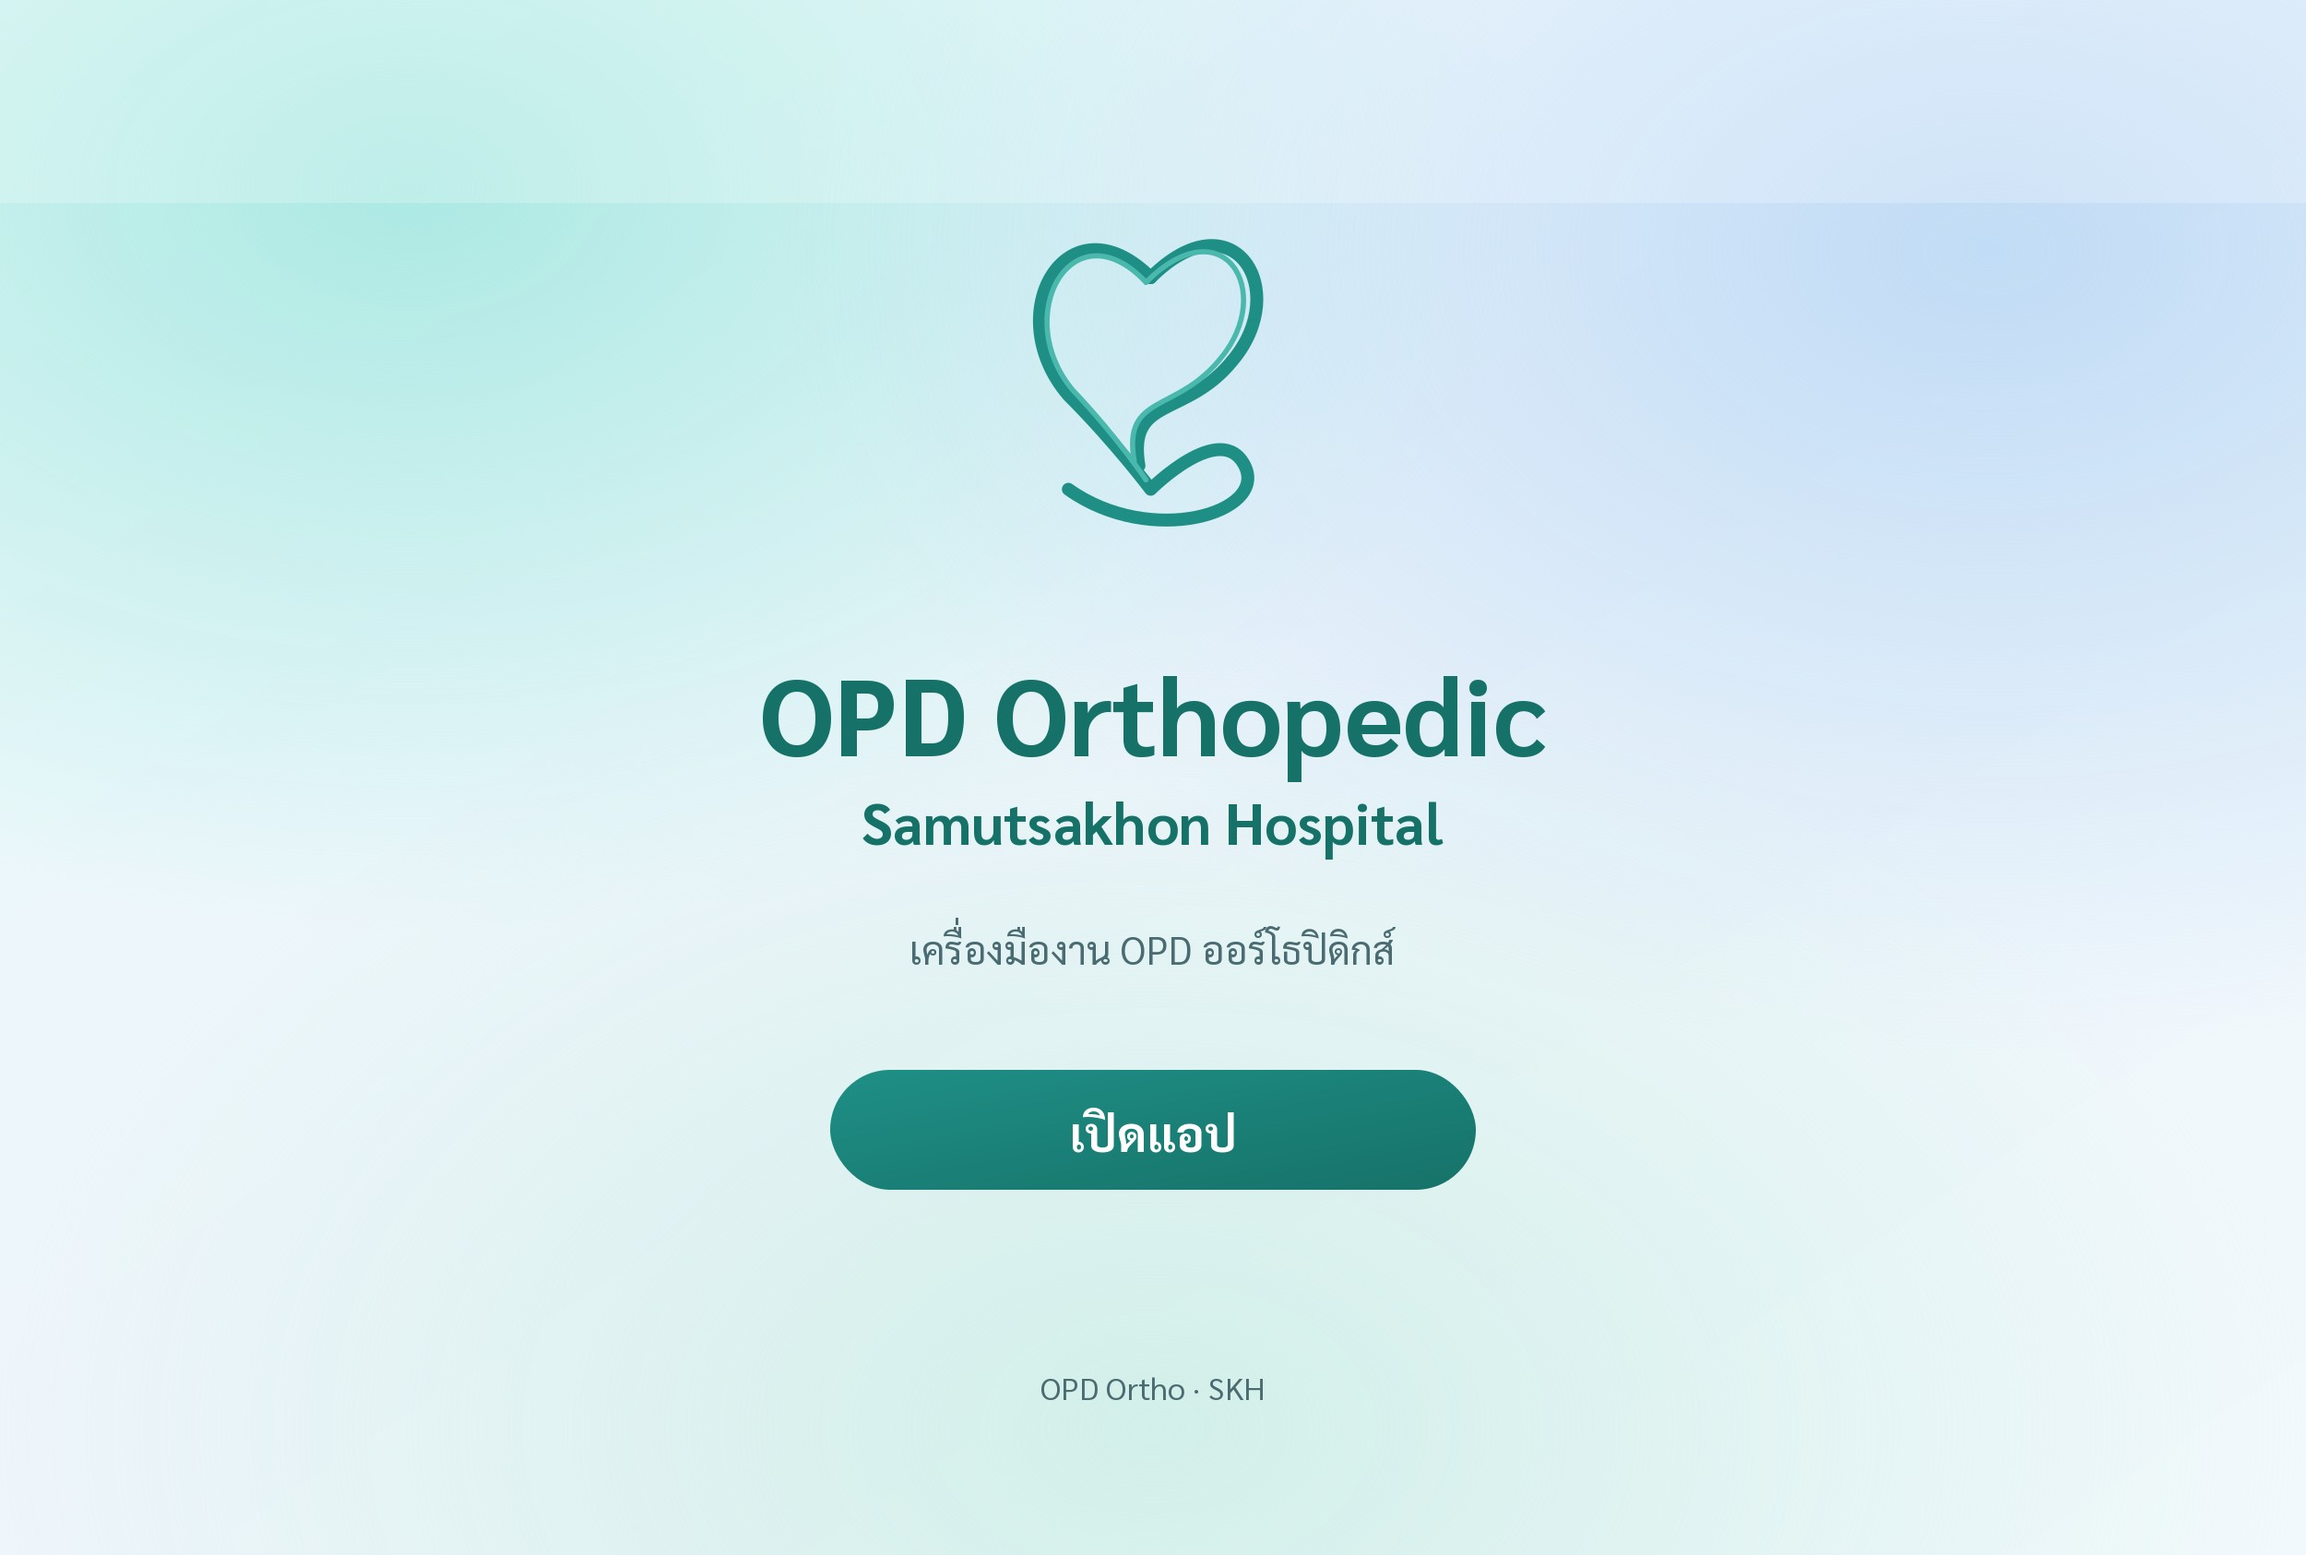
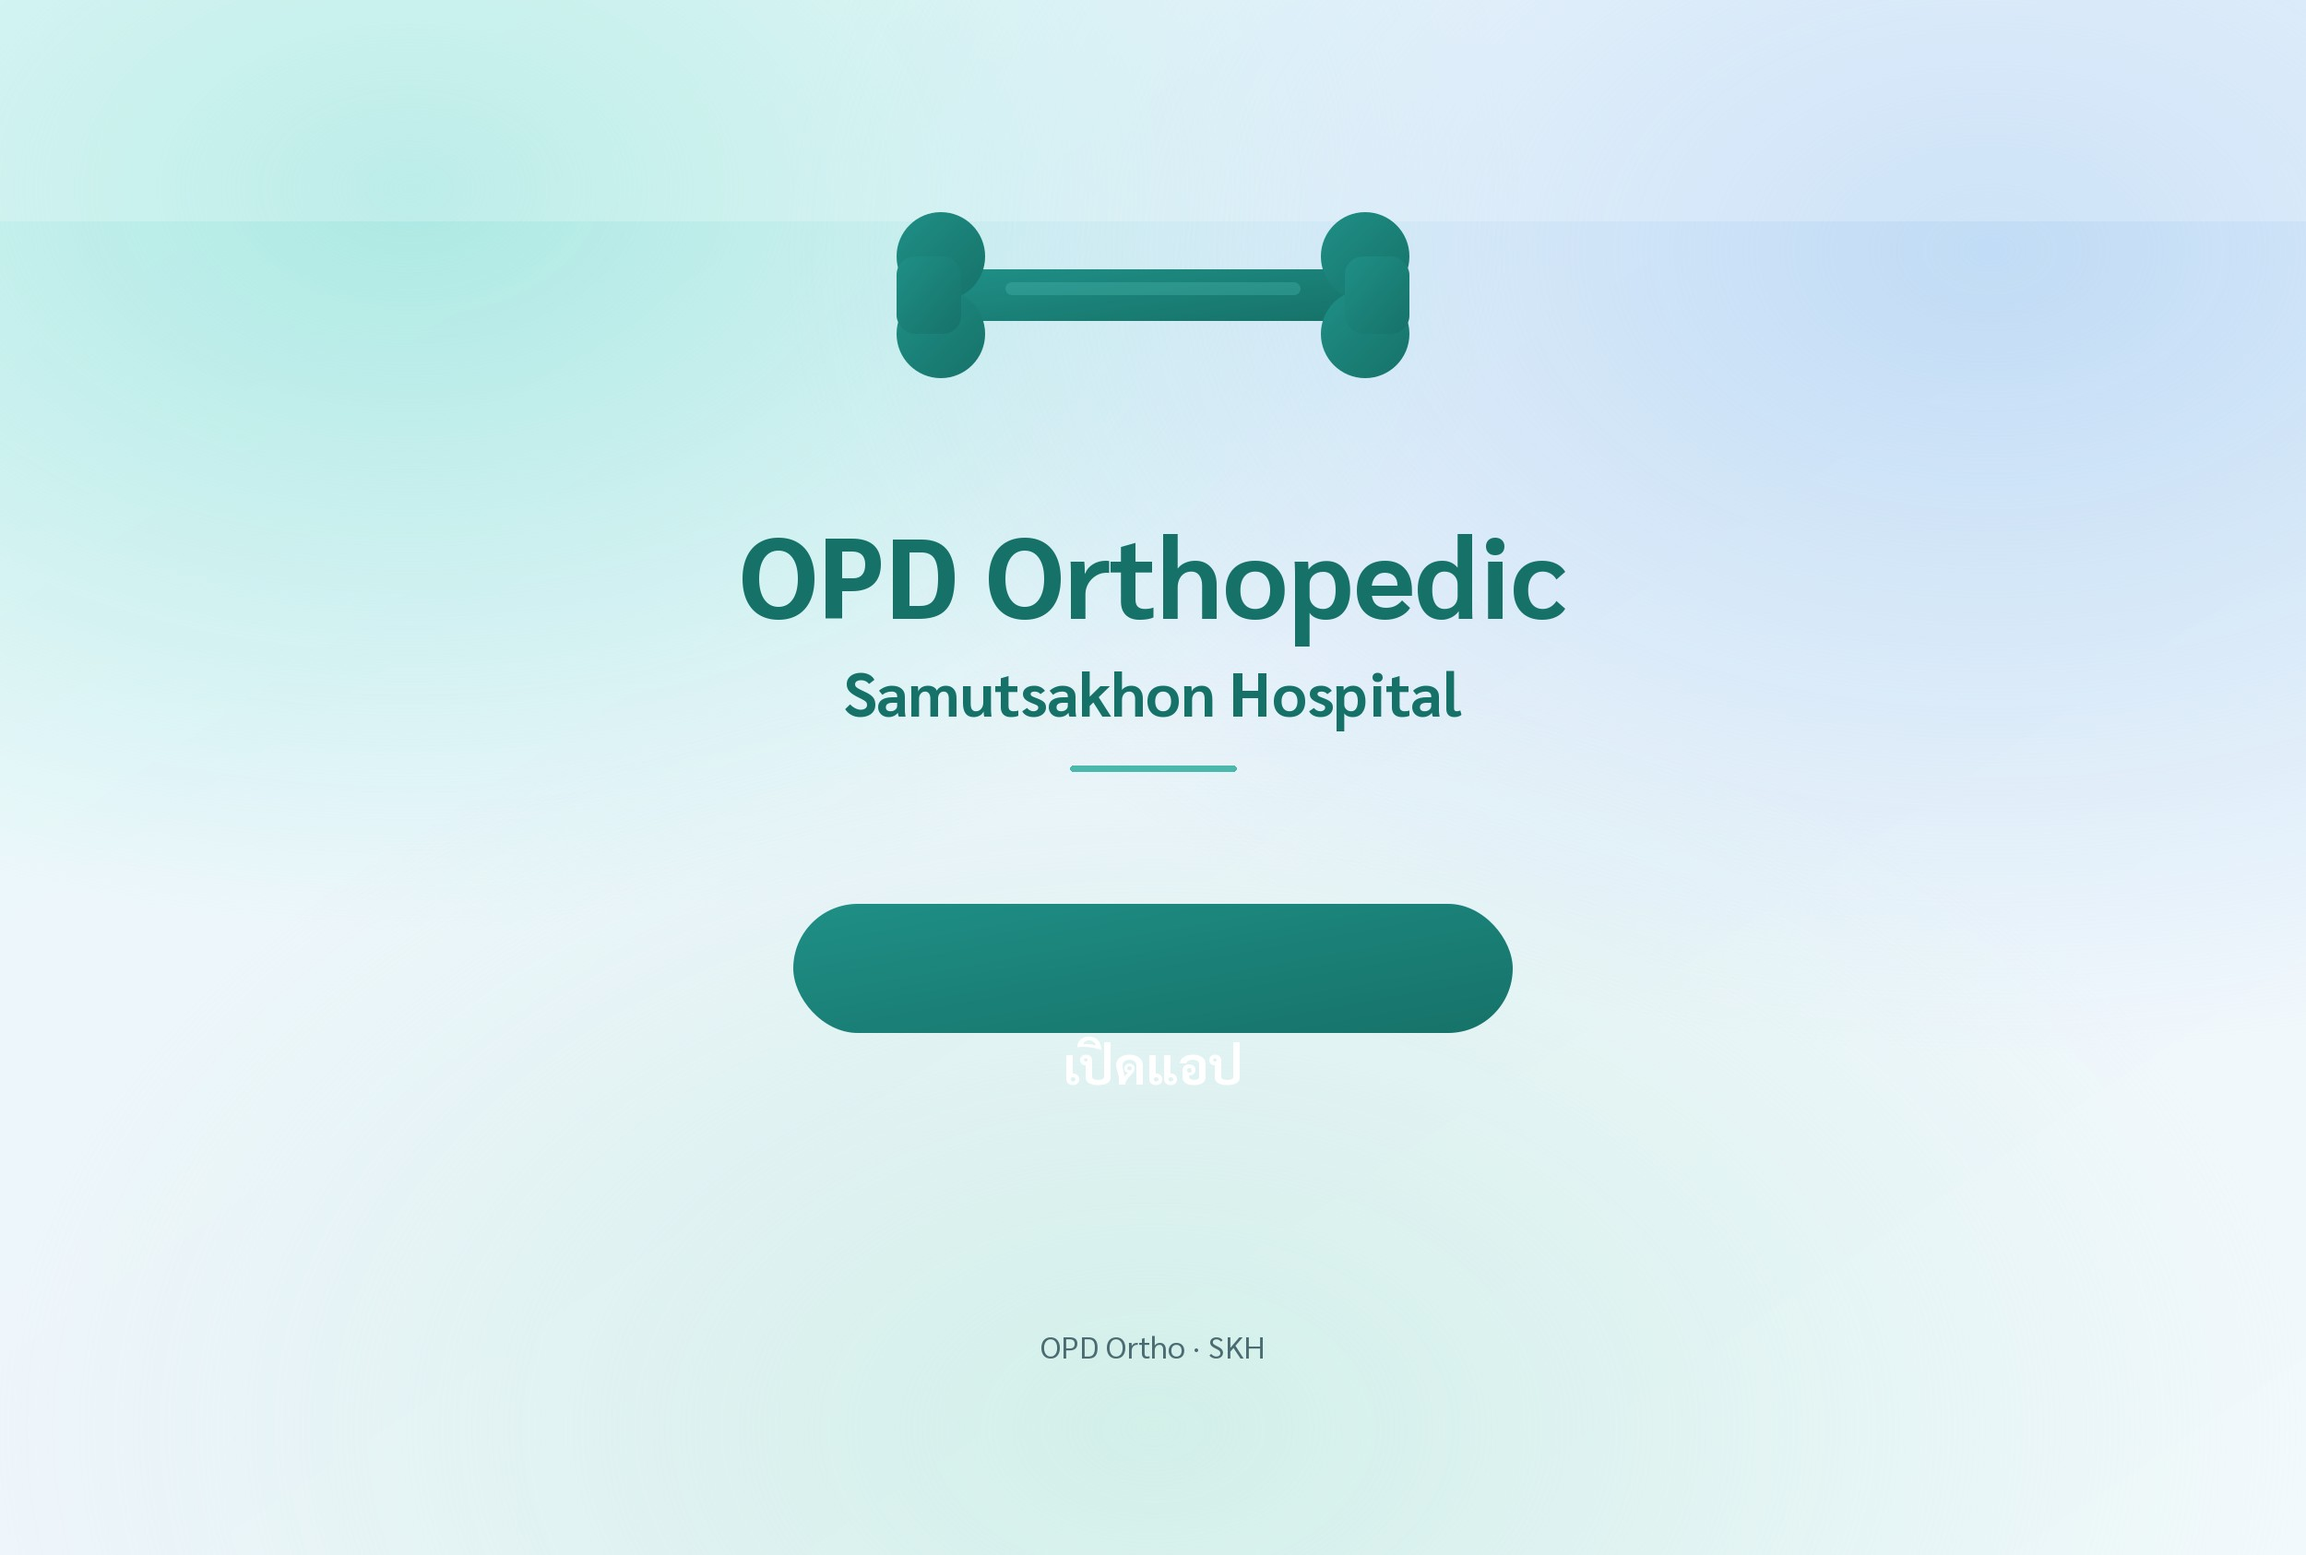
Refine rich menu: bone mark, drop support line, tighten spacing
Replace the heart/EKG stroke with an orthopedic bone icon, remove the
Thai “เครื่องมืองาน…” line, and compact the vertical rhythm.

Changed region(s): [[0.312, 0.4318, 0.6864, 0.7711], [0.312, 0.1234, 0.6864, 0.4009], [0.4368, 0.8636, 0.5616, 0.8944]]

diff --git a/line/rich-menu/generate-image.py b/line/rich-menu/generate-image.py
@@ -1,9 +1,9 @@
 #!/usr/bin/env python3
 """Generate the OPD Ortho SKH LINE rich-menu image (2500x1686 JPEG).
 
-Full-bleed branded CTA matching the app glass/teal theme and AnimatedLogo.
-JPEG stays under LINE's 1 MB limit (soft gradients blow past that as PNG).
-Thai text is drawn with Pillow + Sarabun (Cairo SVG fonts are unreliable for Thai).
+Full-bleed branded CTA: teal glass atmosphere, bone mark, brand wordmark,
+single “เปิดแอป” button. JPEG stays under LINE’s 1 MB limit.
+Thai text is drawn with Pillow + Sarabun.
 """
 
 from __future__ import annotations
@@ -20,31 +20,17 @@ FONT_BOLD = ROOT / "public" / "fonts" / "Sarabun-Bold.ttf"
 FONT_REG = ROOT / "public" / "fonts" / "Sarabun-Regular.ttf"
 
 W, H = 2500, 1686
-BRAND = (22, 114, 105)  # brand.600 / logo fill
+BRAND = (22, 114, 105)  # brand.600
+ACCENT = (75, 184, 174)  # brand.400
 MUTED = (74, 107, 114)
 
 
 def build_atmosphere_svg() -> str:
-    """Background + AnimatedLogo heart + CTA pill shape (labels drawn in Pillow)."""
+    """Background + bone mark + CTA pill (labels drawn in Pillow)."""
+    # Classic long-bone silhouette (orthopedic), centered at ~1250,380
     return f"""<?xml version="1.0" encoding="UTF-8"?>
 <svg xmlns="http://www.w3.org/2000/svg" width="{W}" height="{H}" viewBox="0 0 {W} {H}">
   <defs>
-    <style>
-      .heart-dark {{
-        fill: none;
-        stroke: #1f8f86;
-        stroke-width: 5.5;
-        stroke-linecap: round;
-        stroke-linejoin: round;
-      }}
-      .heart-light {{
-        fill: none;
-        stroke: #4bb8ae;
-        stroke-width: 2.2;
-        stroke-linecap: round;
-        stroke-linejoin: round;
-      }}
-    </style>
     <linearGradient id="wash" x1="0%" y1="0%" x2="100%" y2="100%">
       <stop offset="0%" stop-color="#eafbfa"/>
       <stop offset="48%" stop-color="#eef5fb"/>
@@ -62,6 +48,10 @@ def build_atmosphere_svg() -> str:
       <stop offset="0%" stop-color="#cdeee6" stop-opacity="0.85"/>
       <stop offset="100%" stop-color="#cdeee6" stop-opacity="0"/>
     </radialGradient>
+    <linearGradient id="boneFill" x1="0%" y1="0%" x2="100%" y2="100%">
+      <stop offset="0%" stop-color="#1f8f86"/>
+      <stop offset="100%" stop-color="#167269"/>
+    </linearGradient>
     <linearGradient id="ctaFill" x1="0%" y1="0%" x2="100%" y2="100%">
       <stop offset="0%" stop-color="#1f8f86"/>
       <stop offset="100%" stop-color="#167269"/>
@@ -72,21 +62,26 @@ def build_atmosphere_svg() -> str:
   <rect width="{W}" height="{H}" fill="url(#blobTeal)"/>
   <rect width="{W}" height="{H}" fill="url(#blobBlue)"/>
   <rect width="{W}" height="{H}" fill="url(#blobMint)"/>
-  <rect x="0" y="0" width="{W}" height="260" fill="#ffffff" opacity="0.20"/>
+  <rect x="0" y="0" width="{W}" height="240" fill="#ffffff" opacity="0.20"/>
 
-  <!-- AnimatedLogo heart strokes (same paths as src/components/animated-logo.tsx) -->
-  <g transform="translate(1095, 210) scale(2.85)">
-    <path class="heart-dark"
-      d="M 50 20 C 15 -15 -15 35 15 70 C 35 90 50 110 50 110 C 50 110 80 80 90 100 C 100 120 50 135 15 110"/>
-    <path class="heart-dark"
-      d="M 50 20 C 85 -15 110 25 85 55 C 65 80 40 70 45 100"/>
-    <path class="heart-light"
-      d="M 48 22 C 17 -11 -10 36 17 68 C 36 88 48 106 48 106"/>
-    <path class="heart-light"
-      d="M 48 22 C 81 -11 103 26 80 54 C 61 78 38 69 43 98"/>
+  <!-- Orthopedic long bone (horizontal), brand teal -->
+  <g transform="translate(1250, 320)">
+    <!-- shaft -->
+    <rect x="-210" y="-28" width="420" height="56" rx="22" fill="url(#boneFill)"/>
+    <!-- left epiphysis (two lobes) -->
+    <circle cx="-230" cy="-42" r="48" fill="url(#boneFill)"/>
+    <circle cx="-230" cy="42" r="48" fill="url(#boneFill)"/>
+    <rect x="-278" y="-42" width="70" height="84" rx="20" fill="url(#boneFill)"/>
+    <!-- right epiphysis -->
+    <circle cx="230" cy="-42" r="48" fill="url(#boneFill)"/>
+    <circle cx="230" cy="42" r="48" fill="url(#boneFill)"/>
+    <rect x="208" y="-42" width="70" height="84" rx="20" fill="url(#boneFill)"/>
+    <!-- soft highlight along shaft -->
+    <rect x="-160" y="-14" width="320" height="14" rx="7" fill="#4bb8ae" opacity="0.35"/>
   </g>
 
-  <rect x="860" y="1185" width="780" height="140" rx="70" fill="url(#ctaFill)"/>
+  <!-- CTA pill -->
+  <rect x="860" y="980" width="780" height="140" rx="70" fill="url(#ctaFill)"/>
 </svg>
 """
 
@@ -117,21 +112,15 @@ def main() -> None:
 
     title = ImageFont.truetype(str(FONT_BOLD), 124)
     hospital = ImageFont.truetype(str(FONT_BOLD), 66)
-    support = ImageFont.truetype(str(FONT_REG), 44)
     cta = ImageFont.truetype(str(FONT_BOLD), 56)
     footer = ImageFont.truetype(str(FONT_REG), 34)
 
-    # Brand-first hierarchy (matches home screen AnimatedLogo copy)
-    centered_text(draw, "OPD Orthopedic", 780, title, BRAND)
-    centered_text(draw, "Samutsakhon Hospital", 895, hospital, BRAND)
-
-    # Soft rule under hospital name
-    rule_y = 960
-    draw.rounded_rectangle((1120, rule_y, 1380, rule_y + 6), radius=3, fill=(75, 184, 174, ))
-
-    centered_text(draw, "เครื่องมืองาน OPD ออร์โธปิดิกส์", 1040, support, MUTED)
-    centered_text(draw, "เปิดแอป", 1255, cta, (255, 255, 255))
-    centered_text(draw, "OPD Ortho · SKH", 1520, footer, MUTED)
+    # Compact centered stack: bone → title → hospital → rule → CTA → footer
+    centered_text(draw, "OPD Orthopedic", 560, title, BRAND)
+    centered_text(draw, "Samutsakhon Hospital", 670, hospital, BRAND)
+    draw.rounded_rectangle((1160, 735, 1340, 741), radius=3, fill=ACCENT)
+    centered_text(draw, "เปิดแอป", 1050, cta, (255, 255, 255))
+    centered_text(draw, "OPD Ortho · SKH", 1320, footer, MUTED)
 
     im.save(OUT, format="JPEG", quality=90, optimize=True, progressive=True)
     size_kb = OUT.stat().st_size / 1024
